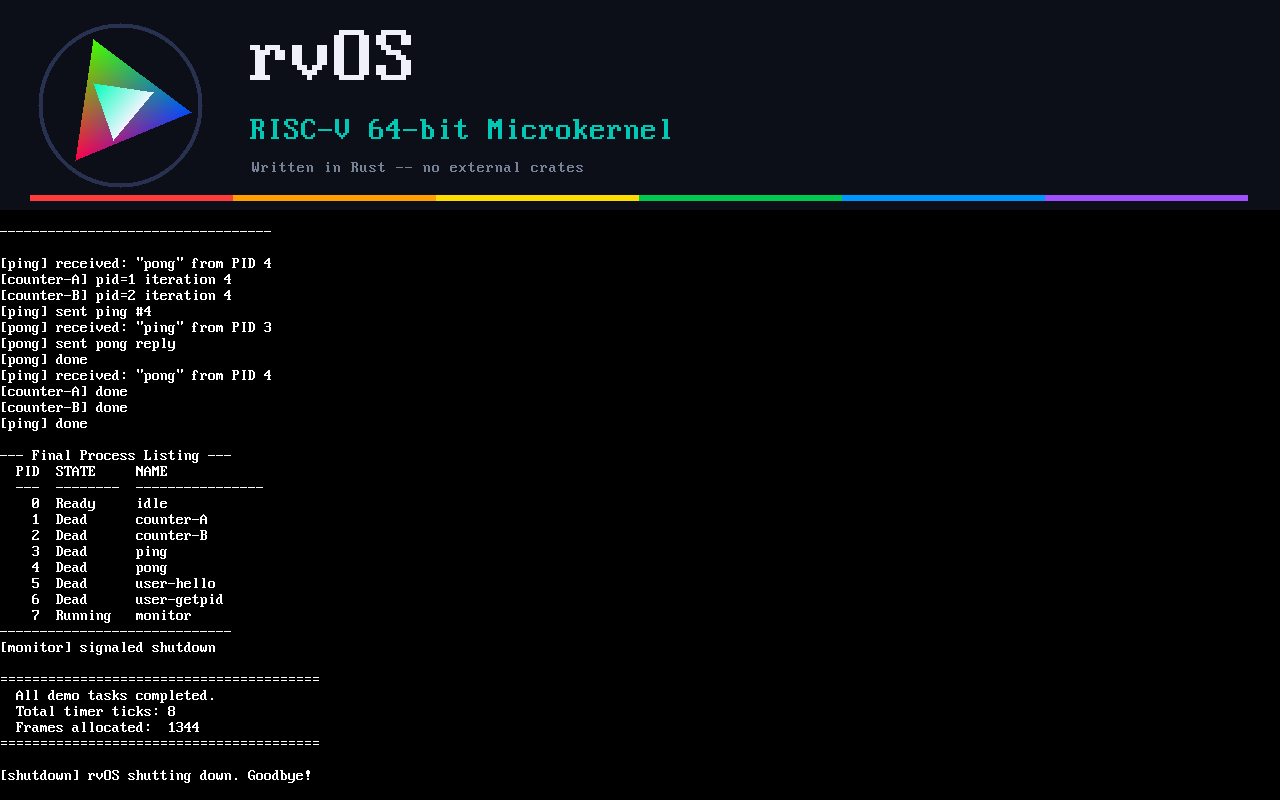
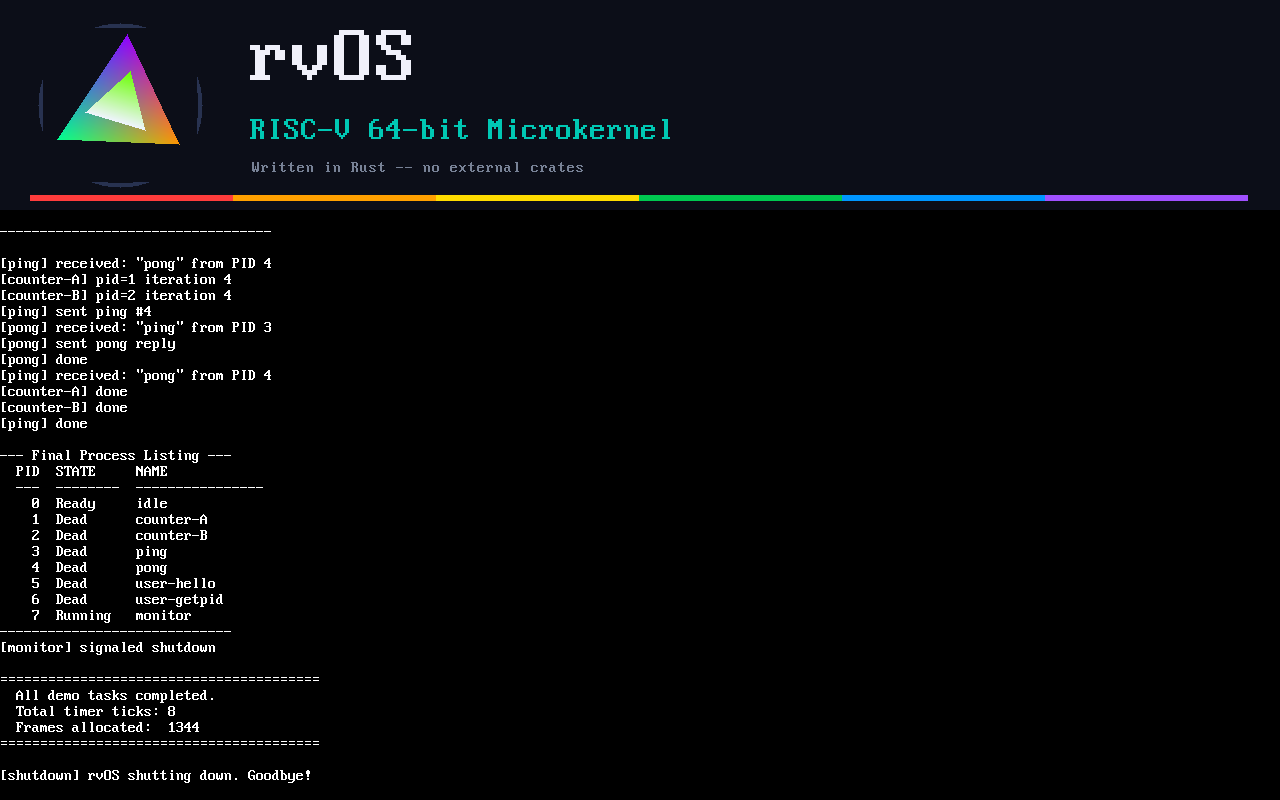
Keep triangle animation spinning after demo for VNC/GUI users
After the demo completes, the logo triangle keeps spinning forever
so users connecting via VNC or GUI can actually see the animation.
Serial-only mode (make run) still exits cleanly via sbi_shutdown().

Changed region(s): [[0.0312, 0.0312, 0.1562, 0.2188]]

diff --git a/kernel/src/console/logo.rs b/kernel/src/console/logo.rs
@@ -267,7 +267,34 @@ pub fn draw_boot_logo(fb: *mut u32, width: u32, height: u32) -> u32 {
         c.fill_rect(bar_margin + i as u32 * seg_w, bar_y, seg_w, bar_h, color);
     }
 
-    // 7. Animate spinning triangles
+    // 7. Animate spinning triangles (one cycle)
+    animate_triangles(&c, cx, cy, 24, 0);
+
+    // Redraw ring on top (animation may have clipped edges)
+    c.draw_ring(cx, cy, 82, 78, RING_COLOR);
+    crate::drivers::virtio::gpu::flush();
+
+    // Return number of text rows the banner occupies
+    // (BANNER_HEIGHT / 16 rounded up)
+    (BANNER_HEIGHT + 15) / 16
+}
+
+/// Keep the triangle animation spinning forever (call after demo completes).
+/// This never returns — the user kills QEMU with Ctrl+C.
+pub fn animate_forever(fb: *mut u32, width: u32, height: u32) -> ! {
+    let c = Canvas { fb, stride: width, width, height };
+    let cx = 120i32;
+    let cy = 105i32;
+
+    let mut global_frame = 0u32;
+    loop {
+        animate_triangles(&c, cx, cy, 64, global_frame);
+        global_frame = global_frame.wrapping_add(64);
+    }
+}
+
+/// Run `num_frames` of the spinning triangle animation starting at `start_frame`.
+fn animate_triangles(c: &Canvas, cx: i32, cy: i32, num_frames: u32, start_frame: u32) {
     let outer_r = 72i32;
     let inner_r = 36i32;
     let clear_margin = 77u32;
@@ -275,8 +302,9 @@ pub fn draw_boot_logo(fb: *mut u32, width: u32, height: u32) -> u32 {
     let clear_y = (cy as u32).saturating_sub(clear_margin);
     let clear_size = clear_margin * 2;
 
-    let num_frames = 24u32;
-    for frame in 0..num_frames {
+    for i in 0..num_frames {
+        let frame = start_frame.wrapping_add(i);
+
         // Clear triangle area (preserve ring)
         c.fill_rect(clear_x, clear_y, clear_size, clear_size, BG_DARK);
 
@@ -286,8 +314,8 @@ pub fn draw_boot_logo(fb: *mut u32, width: u32, height: u32) -> u32 {
         let (x1, y1) = tri_vertex(cx, cy, outer_r, step + 21);
         let (x2, y2) = tri_vertex(cx, cy, outer_r, step + 42);
 
-        // Vertex colors cycle through hues
-        let hue_base = frame * 256 / num_frames;
+        // Vertex colors cycle through hues (full cycle every 64 frames)
+        let hue_base = frame.wrapping_mul(256) / 64;
         let c0 = hue_to_rgb(hue_base);
         let c1 = hue_to_rgb(hue_base + 85);
         let c2 = hue_to_rgb(hue_base + 170);
@@ -312,12 +340,4 @@ pub fn draw_boot_logo(fb: *mut u32, width: u32, height: u32) -> u32 {
         crate::drivers::virtio::gpu::flush();
         delay_ms(50);
     }
-
-    // Redraw ring on top (animation may have clipped edges)
-    c.draw_ring(cx, cy, 82, 78, RING_COLOR);
-    crate::drivers::virtio::gpu::flush();
-
-    // Return number of text rows the banner occupies
-    // (BANNER_HEIGHT / 16 rounded up)
-    (BANNER_HEIGHT + 15) / 16
 }

diff --git a/kernel/src/main.rs b/kernel/src/main.rs
@@ -150,6 +150,13 @@ pub extern "C" fn kmain() -> ! {
     // Final flush so all output is visible on the GPU framebuffer
     console::fb_flush();
 
+    // If GPU is active, keep the logo triangle spinning so VNC/GUI users
+    // can actually see it. Ctrl+C in the terminal to quit QEMU.
+    // If no GPU (serial-only), shut down cleanly via SBI.
+    if drivers::virtio::gpu::framebuffer().is_some() {
+        console::animate_logo_forever();
+    }
+
     arch::sbi::sbi_shutdown();
 }
 

diff --git a/kernel/src/console/mod.rs b/kernel/src/console/mod.rs
@@ -48,3 +48,13 @@ pub fn draw_boot_logo() {
         con.set_row(rows_used);
     }
 }
+
+/// Keep the logo triangle spinning forever (call at shutdown).
+/// Only does anything if GPU is active. Never returns.
+pub fn animate_logo_forever() -> ! {
+    if let Some((fb, w, h)) = crate::drivers::virtio::gpu::framebuffer() {
+        logo::animate_forever(fb, w, h);
+    }
+    // No GPU — just halt
+    loop { unsafe { core::arch::asm!("wfi"); } }
+}
